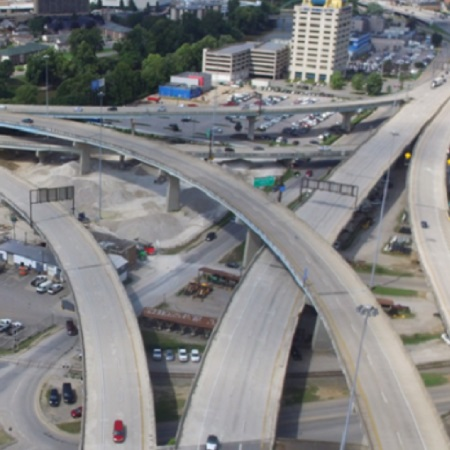
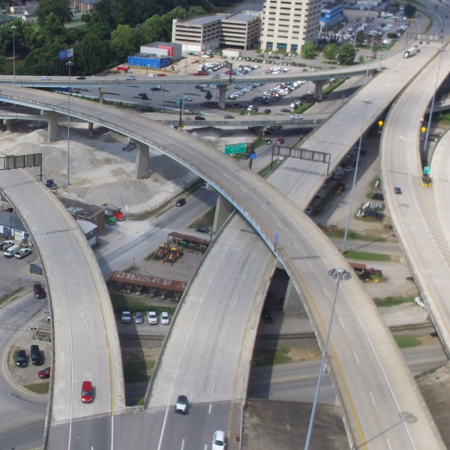
updates to calendar and menu

diff --git a/closures-detours/scripts/index.js b/closures-detours/scripts/index.js
@@ -9,7 +9,16 @@ require([
     const phaseInformationLayer =
         'https://services1.arcgis.com/VLhaRwzp3uCQMr7y/ArcGIS/rest/services/mdx_2200023_00_Closures_20220426_PublicView/FeatureServer/0/query?where=1=1&f=json&outFields=*&returnGeometry=false';
     const map = new Map({
-        basemap: 'gray-vector',
+        // basemap: 'satellite',
+        basemap: 'hybrid',
+        // basemap: 'osm',
+        // basemap: 'dark-gray-vector',
+        // basemap: 'gray-vector',
+        // basemap: 'streets-vector',
+        // basemap: 'streets-night-vector',
+        // basemap: 'streets-navigation-vector',
+        // basemap: 'topo-vector',
+        // basemap: 'streets-relief-vector',
     });
     const view = new MapView({
         container: 'viewDiv',
@@ -692,10 +701,24 @@ require([
 
             existingPhases.forEach((phase, index) => {
                 if (phase !== null) {
+                    // let renderer = {
+                    //     type: 'simple', // autocasts as new SimpleRenderer()
+                    //     symbol: {
+                    // type: 'simple-fill', // autocasts as new SimpleFillSymbol()
+                    // color: [255, 128, 0, 0.5],
+                    // outline: {
+                    //     // autocasts as new SimpleLineSymbol()
+                    //     width: 1,
+                    //     color: 'white',
+                    // },
+                    //     },
+                    // };
+
                     let layer = new FeatureLayer({
                         url: `https://services1.arcgis.com/VLhaRwzp3uCQMr7y/ArcGIS/rest/services/mdx_2200023_00_Closures_20220426_PublicView/FeatureServer/0/`,
                         title: `Phase ${phase}`,
                         visible: false,
+                        // renderer: renderer,
                         definitionExpression: `phase = ${phase}`,
                         popupTemplate: {
                             title: '{Name}',
@@ -719,6 +742,10 @@ require([
                                 },
                             ],
                         },
+                    });
+
+                    layer.once('loaded', (event) => {
+                        console.log(layer.renderer);
                     });
 
                     if (phasesSelected.length > 0) {

diff --git a/index.html b/index.html
@@ -64,20 +64,17 @@
                                 </div>
                                 <div class="col-6 col-lg-4 col-md-6 mw">
                                     <div class="block">
-                                        <span class="block-title"><a href="#">Map</a></span>
-                                        <a href="#">
-                                            <img class="img-fluid icons" src="images/map-coming-soon.jpg" />
+                                        <span class="block-title"><a href="schedule/">Work Schedule</a></span>
+                                        <a href="schedule/">
+                                            <img class="img-fluid icons" src="images/work-schedule.jpg" />
                                         </a>
                                     </div>
                                 </div>
                                 <div class="col-6 col-lg-4 col-md-6 mw">
                                     <div class="block">
-                                        <span class="block-title"><a href="schedule/">Work Schedule</a></span>
-                                        <a href="schedule/">
-                                            <img
-                                                class="img-fluid icons"
-                                                src="images/work-schedule-coming-soon.jpg"
-                                            />
+                                        <span class="block-title"><a href="#">Map</a></span>
+                                        <a href="#">
+                                            <img class="img-fluid icons" src="images/map-coming-soon.jpg" />
                                         </a>
                                     </div>
                                 </div>

diff --git a/schedule/scripts/index.js b/schedule/scripts/index.js
@@ -4,9 +4,29 @@ const phaseInfoURL =
 window.onload = function () {
     require(['esri/request'], (esriRequest) => {
         esriRequest(phaseInfoURL).then(function (response) {
+            function changeTimezone(date, ianatz) {
+                // suppose the date is 12:00 UTC
+                var invdate = new Date(
+                    date.toLocaleString('en-US', {
+                        timeZone: ianatz,
+                    })
+                );
+
+                // then invdate will be 07:00 in Toronto
+                // and the diff is 5 hours
+                var diff = date.getTime() - invdate.getTime();
+
+                // so 12:00 in Toronto is 17:00 UTC
+                return new Date(date.getTime() - diff); // needs to substract
+            }
+
             const calendarData = response.data.features.map((element) => {
-                let startDate = new Date(element.attributes.StartDate);
-                let endDate = new Date(element.attributes.EndDate);
+                let startDate = changeTimezone(new Date(element.attributes.StartDate), 'Europe/London');
+                let endDate = changeTimezone(new Date(element.attributes.EndDate), 'Europe/London');
+
+                // var there = changeTimezone(startDate, 'Europe/London');
+
+                // console.log(`Here: ${startDate.toString()}\nToronto: ${there.toString()}`);
 
                 return {
                     title: element.attributes.Title,

diff --git a/styles/index.css b/styles/index.css
@@ -130,14 +130,15 @@ h4 {
     float: left;
     text-align: left;
     width: 100%;
-    background-image: linear-gradient(to left, rgba(255, 0, 0, 0), #ffc107c0);
+    background-image: linear-gradient(to left, rgba(255, 0, 0, 0), #ffd512);
     padding: 5px 0 5px 10px;
 }
 .block-title a {
     font-weight: 500;
     color: rgba(255, 255, 255);
     text-decoration: none;
-    font-size: clamp(15px, 1vw, 20px);
+    font-size: clamp(25px, 1vw, 35px);
+    font-weight: bolder;
 }
 .map-holder {
     width: 600px;
